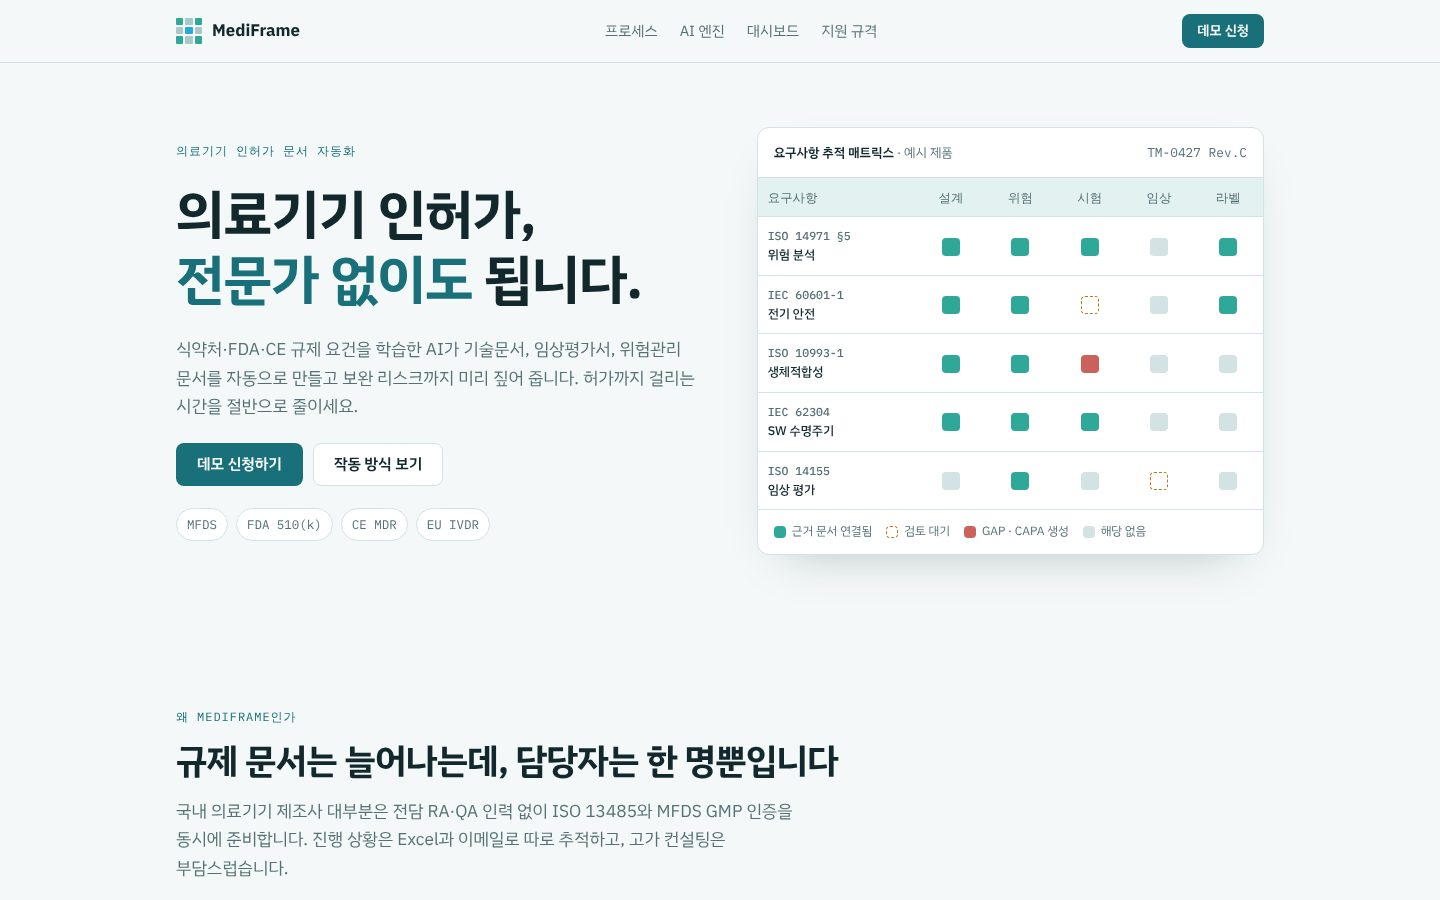
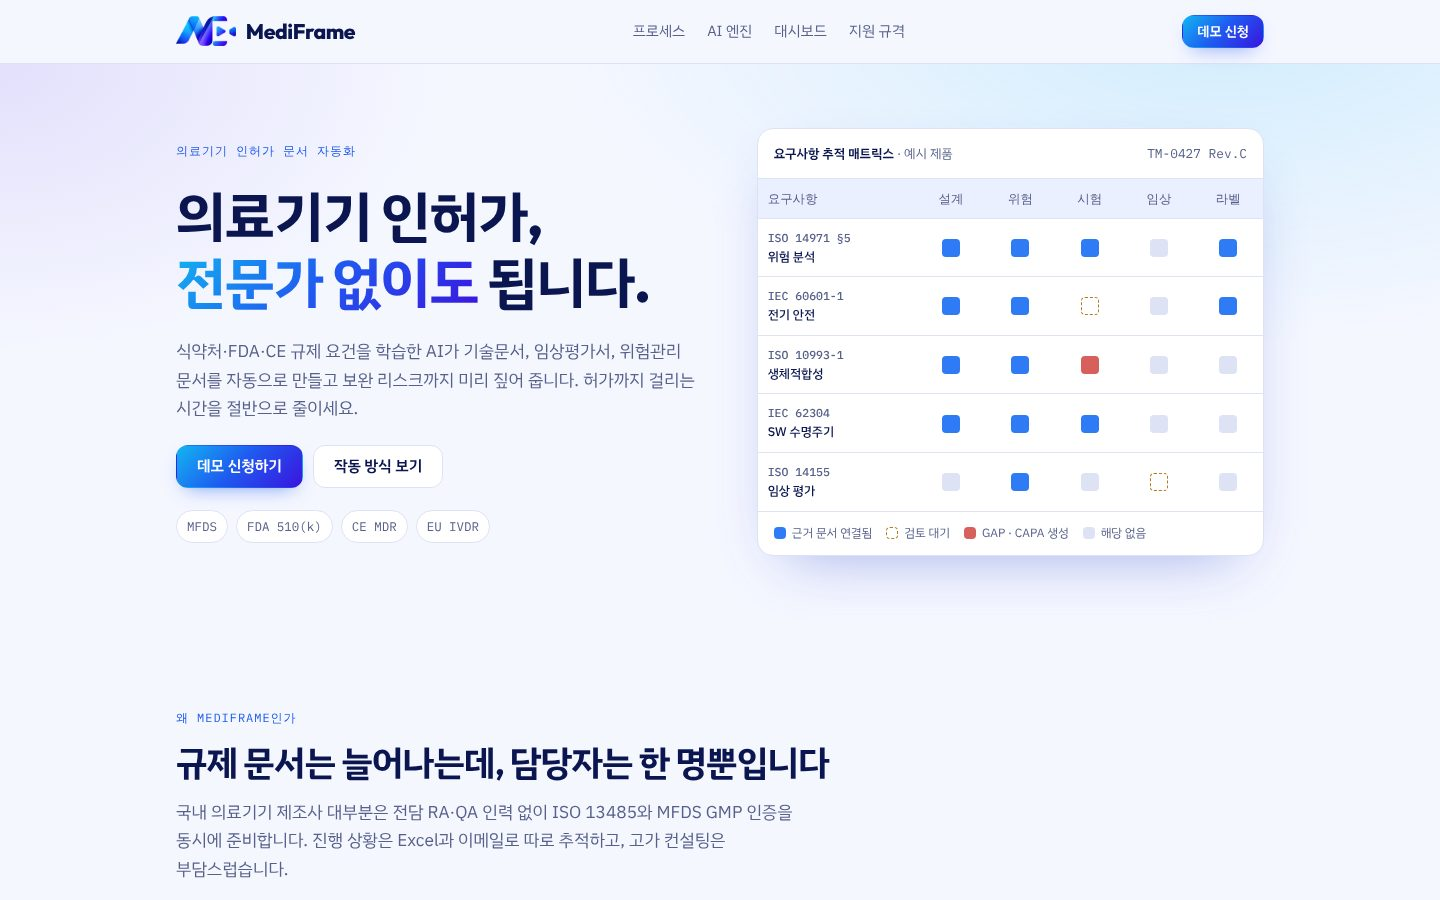
MediFrame 로고 반영과 톤앤매너 변경
로고 심볼과 앱 아이콘을 원본에서 잘라 assets/에 넣고 내비게이션,
CTA, 푸터, 파비콘에 적용합니다. 색은 로고의 시안-블루-인디고
그라디언트와 네이비 워드마크에 맞추고 제목 서체를 Outfit으로
바꿉니다. 라이트·다크 모드 모두 맞췄습니다.

Claude-Session: https://claude.ai/code/session_01Tnwuau6S3Tp2hSZwketK6E

diff --git a/index.html b/index.html
@@ -6,39 +6,46 @@
 <meta name="description" content="식약처·FDA·CE 규제 요건을 학습한 AI가 의료기기 기술문서, 임상평가서, 위험관리 문서를 자동으로 만듭니다.">
 <style>:root{padding-top:env(safe-area-inset-top,0px);padding-bottom:env(safe-area-inset-bottom,0px)}body{margin:0}img{max-width:100%}[hidden]{display:none!important}</style>
 <title>MediFrame · 의료기기 인허가 문서 자동화</title>
+<link rel="icon" type="image/png" href="assets/app-icon.png">
+<link rel="apple-touch-icon" href="assets/app-icon.png">
+<meta name="theme-color" content="#1f5bf0">
 <link rel="preconnect" href="https://fonts.googleapis.com">
 <link rel="preconnect" href="https://fonts.gstatic.com" crossorigin>
-<link rel="stylesheet" href="https://fonts.googleapis.com/css2?family=IBM+Plex+Mono:wght@400;500&family=IBM+Plex+Sans+KR:wght@400;500;600;700&display=swap">
+<link rel="stylesheet" href="https://fonts.googleapis.com/css2?family=IBM+Plex+Mono:wght@400;500&family=Outfit:wght@600;700;800&family=IBM+Plex+Sans+KR:wght@400;500;600;700&display=swap">
 <style>
-/* Layout: 규제 문서 양식(문서번호·개정·추적성 매트릭스)을 뼈대로 쓴 단일 컬럼 + 섹션별 2단 그리드 */
+/* Layout: 규제 문서 양식(문서번호·개정·추적성 매트릭스)을 뼈대로 쓴 단일 컬럼. 색은 MediFrame 로고의 시안→블루→인디고 그라디언트와 네이비 워드마크에서 가져옴 */
 :root {
-  --bg: #f4f8f8;
+  --bg: #f5f7ff;
   --surface: #ffffff;
-  --ink: #12282d;
-  --muted: #557075;
-  --line: #d3e2e2;
-  --teal: #19707a;
-  --mint: #2fa89a;
-  --sky: #2aa8de;
-  --tint: #e3f2f0;
-  --ok: #1f8f5f;
+  --ink: #0b1650;
+  --muted: #56608a;
+  --line: #dde3f5;
+  --teal: #1f5bf0;   /* 브랜드 블루 (기본 강조) */
+  --mint: #2f7bf5;   /* 보조 블루 */
+  --sky: #12b5f2;    /* 시안 */
+  --indigo: #3a14e0;
+  --tint: #eaf0ff;
+  --on-brand: #ffffff;
+  --grad: linear-gradient(135deg, #12b5f2 0%, #1f5bf0 48%, #3a14e0 100%);
+  --ok: #1a8f62;
   --warn: #b7791f;
-  --crit: #c2453d;
-  --font-display: "IBM Plex Sans KR", "Apple SD Gothic Neo", "Malgun Gothic", system-ui, sans-serif;
+  --crit: #d0433f;
+  --radius: 16px;
+  --font-display: "Outfit", "IBM Plex Sans KR", "Apple SD Gothic Neo", "Malgun Gothic", system-ui, sans-serif;
   --font-body: "IBM Plex Sans KR", "Apple SD Gothic Neo", "Malgun Gothic", system-ui, sans-serif;
   --font-mono: "IBM Plex Mono", ui-monospace, "SFMono-Regular", Menlo, monospace;
 }
 @media (prefers-color-scheme: dark) {
   :root:not([data-theme="light"]) {
-    --bg: #0d1a1c; --surface: #132427; --ink: #e2eeee; --muted: #93aeb1; --line: #24393c;
-    --teal: #5cc6c4; --mint: #4cc2b0; --sky: #5ec0ea; --tint: #163033;
-    --ok: #4cc08a; --warn: #e0a84a; --crit: #ec7a70; color-scheme: dark;
+    --bg: #070d2e; --surface: #0e1742; --ink: #e8ecff; --muted: #9aa5d4; --line: #1f2a5c;
+    --teal: #5b8cff; --mint: #4f7dff; --sky: #3cc8f7; --indigo: #8a6bff; --tint: #131f55;
+    --ok: #4cc08a; --warn: #e0a84a; --crit: #f07a70; color-scheme: dark;
   }
 }
 :root[data-theme="dark"] {
-  --bg: #0d1a1c; --surface: #132427; --ink: #e2eeee; --muted: #93aeb1; --line: #24393c;
-  --teal: #5cc6c4; --mint: #4cc2b0; --sky: #5ec0ea; --tint: #163033;
-  --ok: #4cc08a; --warn: #e0a84a; --crit: #ec7a70; color-scheme: dark;
+  --bg: #070d2e; --surface: #0e1742; --ink: #e8ecff; --muted: #9aa5d4; --line: #1f2a5c;
+  --teal: #5b8cff; --mint: #4f7dff; --sky: #3cc8f7; --indigo: #8a6bff; --tint: #131f55;
+  --ok: #4cc08a; --warn: #e0a84a; --crit: #f07a70; color-scheme: dark;
 }
 
 * { box-sizing: border-box; }
@@ -53,7 +60,7 @@ body {
   padding-right: max(16px, env(safe-area-inset-right, 0px));
 }
 h1, h2, h3 { font-family: var(--font-display); text-wrap: balance; margin: 0; letter-spacing: -0.02em; }
-h1 { font-size: clamp(2rem, 5.2vw, 3.4rem); line-height: 1.2; font-weight: 700; }
+h1 { font-size: clamp(2rem, 5.2vw, 3.5rem); line-height: 1.18; font-weight: 800; }
 h2 { font-size: clamp(1.5rem, 3.4vw, 2.2rem); line-height: 1.3; font-weight: 700; }
 h3 { font-size: 1.1rem; font-weight: 600; line-height: 1.4; }
 p { margin: 0; }
@@ -69,11 +76,9 @@ a { color: inherit; }
 /* Nav */
 nav.top { border-bottom: 1px solid var(--line); background: var(--bg); }
 nav.top .wrap { display: flex; align-items: center; justify-content: space-between; gap: 16px; padding-block: 14px; }
-.brand { display: flex; align-items: center; gap: 10px; font-weight: 700; font-size: 1.05rem; text-decoration: none; }
-.brand-mark { width: 26px; height: 26px; display: grid; grid-template-columns: repeat(3, 1fr); gap: 2px; }
-.brand-mark i { background: var(--mint); border-radius: 1px; }
-.brand-mark i:nth-child(2n) { background: var(--teal); opacity: .35; }
-.brand-mark i:nth-child(5) { background: var(--sky); opacity: 1; }
+.brand { display: flex; align-items: center; gap: 10px; text-decoration: none; }
+.brand img { height: 30px; width: auto; display: block; }
+.brand span { font-family: "Outfit", var(--font-body); font-weight: 800; font-size: 1.32rem; letter-spacing: -0.02em; color: var(--ink); }
 .nav-links { display: flex; gap: 22px; font-size: .92rem; color: var(--muted); }
 .nav-links a { text-decoration: none; }
 .nav-links a:hover { color: var(--ink); }
@@ -81,10 +86,10 @@ nav.top .wrap { display: flex; align-items: center; justify-content: space-betwe
 
 .btn {
   display: inline-flex; align-items: center; gap: 8px; justify-content: center;
-  font: 600 0.95rem/1 var(--font-body); padding: 13px 20px; border-radius: 8px;
+  font: 600 0.95rem/1 var(--font-body); padding: 13px 20px; border-radius: 12px;
   text-decoration: none; border: 1px solid transparent; cursor: pointer; white-space: nowrap;
 }
-.btn-primary { background: var(--teal); color: var(--surface); }
+.btn-primary { background: var(--grad); color: var(--on-brand); box-shadow: 0 8px 20px -10px rgba(31, 91, 240, .7); }
 .btn-primary:hover { filter: brightness(1.08); }
 .btn-ghost { border-color: var(--line); color: var(--ink); background: var(--surface); }
 .btn-ghost:hover { border-color: var(--teal); }
@@ -93,7 +98,8 @@ nav.top .wrap { display: flex; align-items: center; justify-content: space-betwe
 /* Hero */
 .hero .wrap { display: grid; grid-template-columns: 1.05fr 1fr; gap: 48px; align-items: center; padding-block: 64px 72px; }
 .hero-copy { display: flex; flex-direction: column; gap: 22px; min-width: 0; }
-.hero h1 em { font-style: normal; color: var(--teal); }
+.hero h1 em { font-style: normal; background: var(--grad); -webkit-background-clip: text; background-clip: text; color: transparent; }
+.hero { background: radial-gradient(60rem 30rem at 85% -10%, color-mix(in srgb, var(--sky) 16%, transparent), transparent 70%), radial-gradient(40rem 26rem at 0% 0%, color-mix(in srgb, var(--indigo) 10%, transparent), transparent 70%); }
 .hero-ctas { display: flex; flex-wrap: wrap; gap: 10px; }
 .agencies { display: flex; flex-wrap: wrap; gap: 8px; }
 .chip {
@@ -104,8 +110,8 @@ nav.top .wrap { display: flex; align-items: center; justify-content: space-betwe
 
 /* Traceability matrix (hero visual) */
 .matrix {
-  background: var(--surface); border: 1px solid var(--line); border-radius: 12px;
-  box-shadow: 0 20px 50px -30px rgba(18, 40, 45, .35); min-width: 0; overflow: hidden;
+  background: var(--surface); border: 1px solid var(--line); border-radius: var(--radius);
+  box-shadow: 0 24px 60px -30px rgba(31, 60, 200, .45); min-width: 0; overflow: hidden;
 }
 .matrix-head {
   display: flex; justify-content: space-between; gap: 12px; flex-wrap: wrap;
@@ -138,8 +144,8 @@ section.block + section.block .wrap { border-top: 1px solid var(--line); }
 
 /* Problem */
 .problem-grid { display: grid; grid-template-columns: repeat(3, 1fr); gap: 20px; }
-.stat { display: flex; flex-direction: column; gap: 8px; padding-top: 16px; border-top: 2px solid var(--ink); min-width: 0; }
-.stat .num { font-family: var(--font-mono); font-size: 2.2rem; font-weight: 500; color: var(--teal); line-height: 1.1; }
+.stat { display: flex; flex-direction: column; gap: 8px; padding-top: 16px; border-top: 2px solid var(--teal); min-width: 0; }
+.stat .num { font-family: "Outfit", var(--font-mono); font-weight: 700 !important; font-size: 2.2rem; font-weight: 500; color: var(--teal); line-height: 1.1; }
 .stat p { color: var(--muted); font-size: .95rem; }
 @media (max-width: 760px) { .problem-grid { grid-template-columns: 1fr; } }
 
@@ -154,24 +160,24 @@ section.block + section.block .wrap { border-top: 1px solid var(--line); }
 @media (max-width: 900px) { .steps { grid-template-columns: repeat(2, 1fr); } }
 @media (max-width: 520px) { .steps { grid-template-columns: 1fr; } .step { padding-right: 0; } }
 .big-claim { display: flex; align-items: baseline; gap: 14px; flex-wrap: wrap; }
-.big-claim .mono { font-size: clamp(2.6rem, 7vw, 4rem); color: var(--teal); line-height: 1; font-weight: 500; }
+.big-claim .mono { font-size: clamp(2.6rem, 7vw, 4rem); background: var(--grad); -webkit-background-clip: text; background-clip: text; color: transparent; line-height: 1; font-weight: 500; }
 .big-claim p { color: var(--muted); max-width: 40ch; }
 
 /* Engine */
 .engine { display: grid; grid-template-columns: 1fr 1.25fr 1fr; gap: 16px; align-items: stretch; }
-.lane { background: var(--surface); border: 1px solid var(--line); border-radius: 12px; padding: 22px; display: flex; flex-direction: column; gap: 14px; min-width: 0; }
-.lane.core { background: var(--tint); border-color: var(--mint); }
+.lane { background: var(--surface); border: 1px solid var(--line); border-radius: var(--radius); padding: 22px; display: flex; flex-direction: column; gap: 14px; min-width: 0; }
+.lane.core { background: var(--tint); border-color: var(--teal); }
 .lane ul { margin: 0; padding: 0; list-style: none; display: flex; flex-direction: column; gap: 10px; font-size: .93rem; }
 .lane li { display: flex; gap: 10px; }
 .lane li::before { content: ""; flex: none; width: 6px; height: 6px; margin-top: .62em; border-radius: 50%; background: var(--mint); }
 .filter { display: flex; flex-direction: column; gap: 6px; }
 .filter-row { display: grid; grid-template-columns: 22px 1fr; gap: 10px; align-items: center; font-size: .9rem; }
-.filter-row b { font-family: var(--font-mono); font-weight: 500; font-size: .75rem; width: 22px; height: 22px; border-radius: 50%; display: grid; place-items: center; background: var(--teal); color: var(--surface); }
+.filter-row b { color: var(--on-brand) !important; font-family: var(--font-mono); font-weight: 500; font-size: .75rem; width: 22px; height: 22px; border-radius: 50%; display: grid; place-items: center; background: var(--grad); }
 .note { font-size: .8rem; color: var(--muted); border-top: 1px dashed var(--line); padding-top: 12px; }
 @media (max-width: 900px) { .engine { grid-template-columns: 1fr; } }
 
 /* Dashboard mock */
-.dash { background: var(--surface); border: 1px solid var(--line); border-radius: 14px; overflow: hidden; }
+.dash { background: var(--surface); border: 1px solid var(--line); border-radius: var(--radius); overflow: hidden; }
 .dash-bar { display: flex; align-items: center; justify-content: space-between; gap: 12px; padding: 12px 18px; border-bottom: 1px solid var(--line); font-size: .82rem; color: var(--muted); flex-wrap: wrap; }
 .dash-bar .dots { display: flex; gap: 6px; }
 .dash-bar .dots i { width: 9px; height: 9px; border-radius: 50%; background: var(--line); }
@@ -184,11 +190,11 @@ section.block + section.block .wrap { border-top: 1px solid var(--line); }
 .ring { width: 76px; height: 76px; flex: none; }
 .ring circle { fill: none; stroke-width: 8; }
 .ring .track { stroke: var(--line); }
-.ring .val { stroke: var(--teal); stroke-linecap: round; }
+.ring .val { stroke-linecap: round; }
 .ring text { fill: var(--ink); font-family: var(--font-mono); font-size: 18px; font-weight: 500; }
 .sub-row { display: grid; grid-template-columns: minmax(0, 1fr) auto; gap: 6px 12px; align-items: center; font-size: .9rem; }
 .bar { grid-column: 1 / -1; height: 6px; border-radius: 6px; background: var(--line); overflow: hidden; }
-.bar i { display: block; height: 100%; background: var(--mint); border-radius: 6px; }
+.bar i { display: block; height: 100%; background: var(--grad); border-radius: 6px; }
 .pill { font-size: .72rem; font-weight: 600; padding: 3px 9px; border-radius: 999px; white-space: nowrap; }
 .p-ok { color: var(--ok); background: color-mix(in srgb, var(--ok) 14%, transparent); }
 .p-warn { color: var(--warn); background: color-mix(in srgb, var(--warn) 14%, transparent); }
@@ -212,28 +218,32 @@ section.block + section.block .wrap { border-top: 1px solid var(--line); }
 
 /* Audience */
 .aud { display: grid; grid-template-columns: repeat(3, 1fr); gap: 20px; }
-.aud-card { display: flex; flex-direction: column; gap: 12px; padding: 24px; border-radius: 12px; border: 1px solid var(--line); background: var(--surface); min-width: 0; }
+.aud-card { display: flex; flex-direction: column; gap: 12px; padding: 24px; border-radius: var(--radius); border: 1px solid var(--line); background: var(--surface); min-width: 0; }
 .aud-card .tier { font-family: var(--font-mono); font-size: .75rem; color: var(--teal); }
 .aud-card p { font-size: .93rem; color: var(--muted); }
 .aud-card .need { margin-top: auto; display: flex; flex-wrap: wrap; gap: 6px; }
 @media (max-width: 860px) { .aud { grid-template-columns: 1fr; } }
 
 /* CTA */
-.cta { background: var(--teal); color: var(--surface); }
+.cta { background: var(--grad); color: var(--on-brand); }
 .cta .wrap { padding-block: 72px; display: grid; grid-template-columns: 1.4fr 1fr; gap: 32px; align-items: center; }
-.cta h2 { color: var(--surface); }
-.cta p { opacity: .85; margin-top: 12px; }
-.cta form { display: flex; flex-direction: column; gap: 10px; }
-.cta label { font-size: .82rem; opacity: .9; }
+.cta h2 { color: var(--on-brand); }
+.cta p { opacity: .9; margin-top: 12px; }
+.cta-mark { height: 44px; width: auto; margin-bottom: 20px; filter: brightness(0) invert(1); opacity: .95; }
+.cta form { display: flex; flex-direction: column; gap: 10px; background: rgba(255, 255, 255, .12); border: 1px solid rgba(255, 255, 255, .25); border-radius: var(--radius); padding: 20px; }
+.cta label { font-size: .82rem; opacity: .95; }
 .cta input {
-  font: inherit; padding: 12px 14px; border-radius: 8px; border: 1px solid transparent;
-  background: var(--surface); color: var(--ink); width: 100%;
+  font: inherit; padding: 12px 14px; border-radius: 10px; border: 1px solid transparent;
+  background: #ffffff; color: #0b1650; width: 100%;
 }
-.cta .btn-light { background: var(--ink); color: var(--surface); }
-:root:not([data-theme="light"]) .cta .btn-light { background: var(--ink); }
+.cta input::placeholder { color: #7b84ab; }
+.cta .btn-light { background: #0b1650; color: #ffffff; }
+.cta .btn-light:hover { background: #050b33; }
 .form-msg { font-size: .88rem; min-height: 1.4em; }
 @media (max-width: 820px) { .cta .wrap { grid-template-columns: 1fr; } }
 
+.foot-brand { display: inline-flex; align-items: center; gap: 8px; }
+.foot-brand img { height: 20px; width: auto; }
 footer .wrap { padding-block: 32px; display: flex; justify-content: space-between; gap: 16px; flex-wrap: wrap; font-size: .82rem; color: var(--muted); }
 </style>
 </head>
@@ -242,8 +252,8 @@ footer .wrap { padding-block: 32px; display: flex; justify-content: space-betwee
 <nav class="top">
   <div class="wrap">
     <a class="brand" href="#top" aria-label="MediFrame 홈">
-      <span class="brand-mark" aria-hidden="true"><i></i><i></i><i></i><i></i><i></i><i></i><i></i><i></i><i></i></span>
-      MediFrame
+      <img src="assets/logo-symbol.png" alt="" width="60" height="30">
+      <span>MediFrame</span>
     </a>
     <div class="nav-links">
       <a href="#process">프로세스</a>
@@ -422,7 +432,8 @@ footer .wrap { padding-block: 32px; display: flex; justify-content: space-betwee
           <div class="overall">
             <svg class="ring" viewBox="0 0 80 80" aria-hidden="true">
               <circle class="track" cx="40" cy="40" r="32"></circle>
-              <circle class="val" cx="40" cy="40" r="32" stroke-dasharray="134.7 201" transform="rotate(-90 40 40)"></circle>
+              <defs><linearGradient id="rg" x1="0" y1="0" x2="1" y2="1"><stop offset="0" stop-color="#12b5f2"/><stop offset=".5" stop-color="#1f5bf0"/><stop offset="1" stop-color="#3a14e0"/></linearGradient></defs>
+              <circle class="val" cx="40" cy="40" r="32" stroke="url(#rg)" stroke-dasharray="134.7 201" transform="rotate(-90 40 40)"></circle>
               <text x="40" y="46" text-anchor="middle">67%</text>
             </svg>
             <div>
@@ -506,6 +517,7 @@ footer .wrap { padding-block: 32px; display: flex; justify-content: space-betwee
 <section class="cta" id="demo">
   <div class="wrap">
     <div>
+      <img class="cta-mark" src="assets/logo-symbol.png" alt="" width="88" height="44">
       <h2>우리 제품에 필요한 문서부터 확인해 보세요</h2>
       <p>제품 정보를 알려 주시면 적용 규격과 필요한 문서 목록을 정리한 데모를 준비해 드립니다.</p>
     </div>
@@ -522,7 +534,7 @@ footer .wrap { padding-block: 32px; display: flex; justify-content: space-betwee
 
 <footer>
   <div class="wrap">
-    <span>© 2026 MediFrame · 규제문서 자동화</span>
+    <span class="foot-brand"><img src="assets/logo-symbol.png" alt="" width="40" height="20"> © 2026 MediFrame · 규제문서 자동화</span>
     <span>MFDS · FDA · CE 인허가 문서 AI</span>
   </div>
 </footer>

diff --git a/README.md b/README.md
@@ -5,6 +5,12 @@
 - 라이브: https://lichardkim-create.github.io/mediframe-landing/
 - `index.html`: 정적 배포본. 외부 라이브러리 없는 단일 파일이고, 모바일과 다크 모드를 지원합니다.
 - `preview.jpg`: 데스크톱 1440px 미리보기
+- `assets/logo-symbol.png`: 로고 심볼 (배경 투명, 라이트·다크 공용)
+- `assets/app-icon.png`: 앱 아이콘 (파비콘)
+
+## 브랜드
+
+색과 서체는 MediFrame 로고에 맞췄습니다. 시안 `#12b5f2` → 블루 `#1f5bf0` → 인디고 `#3a14e0` 그라디언트를 버튼·강조어·CTA에 쓰고, 글자는 로고 워드마크의 네이비 `#0b1650`입니다. 제목 서체는 Outfit, 본문은 IBM Plex Sans KR입니다. 로고 하단 문구(HEALTHCARE ADVERTISING PLATFORM)는 페이지 내용과 맞지 않아 쓰지 않았습니다.
 
 ![preview](preview.jpg)
 
